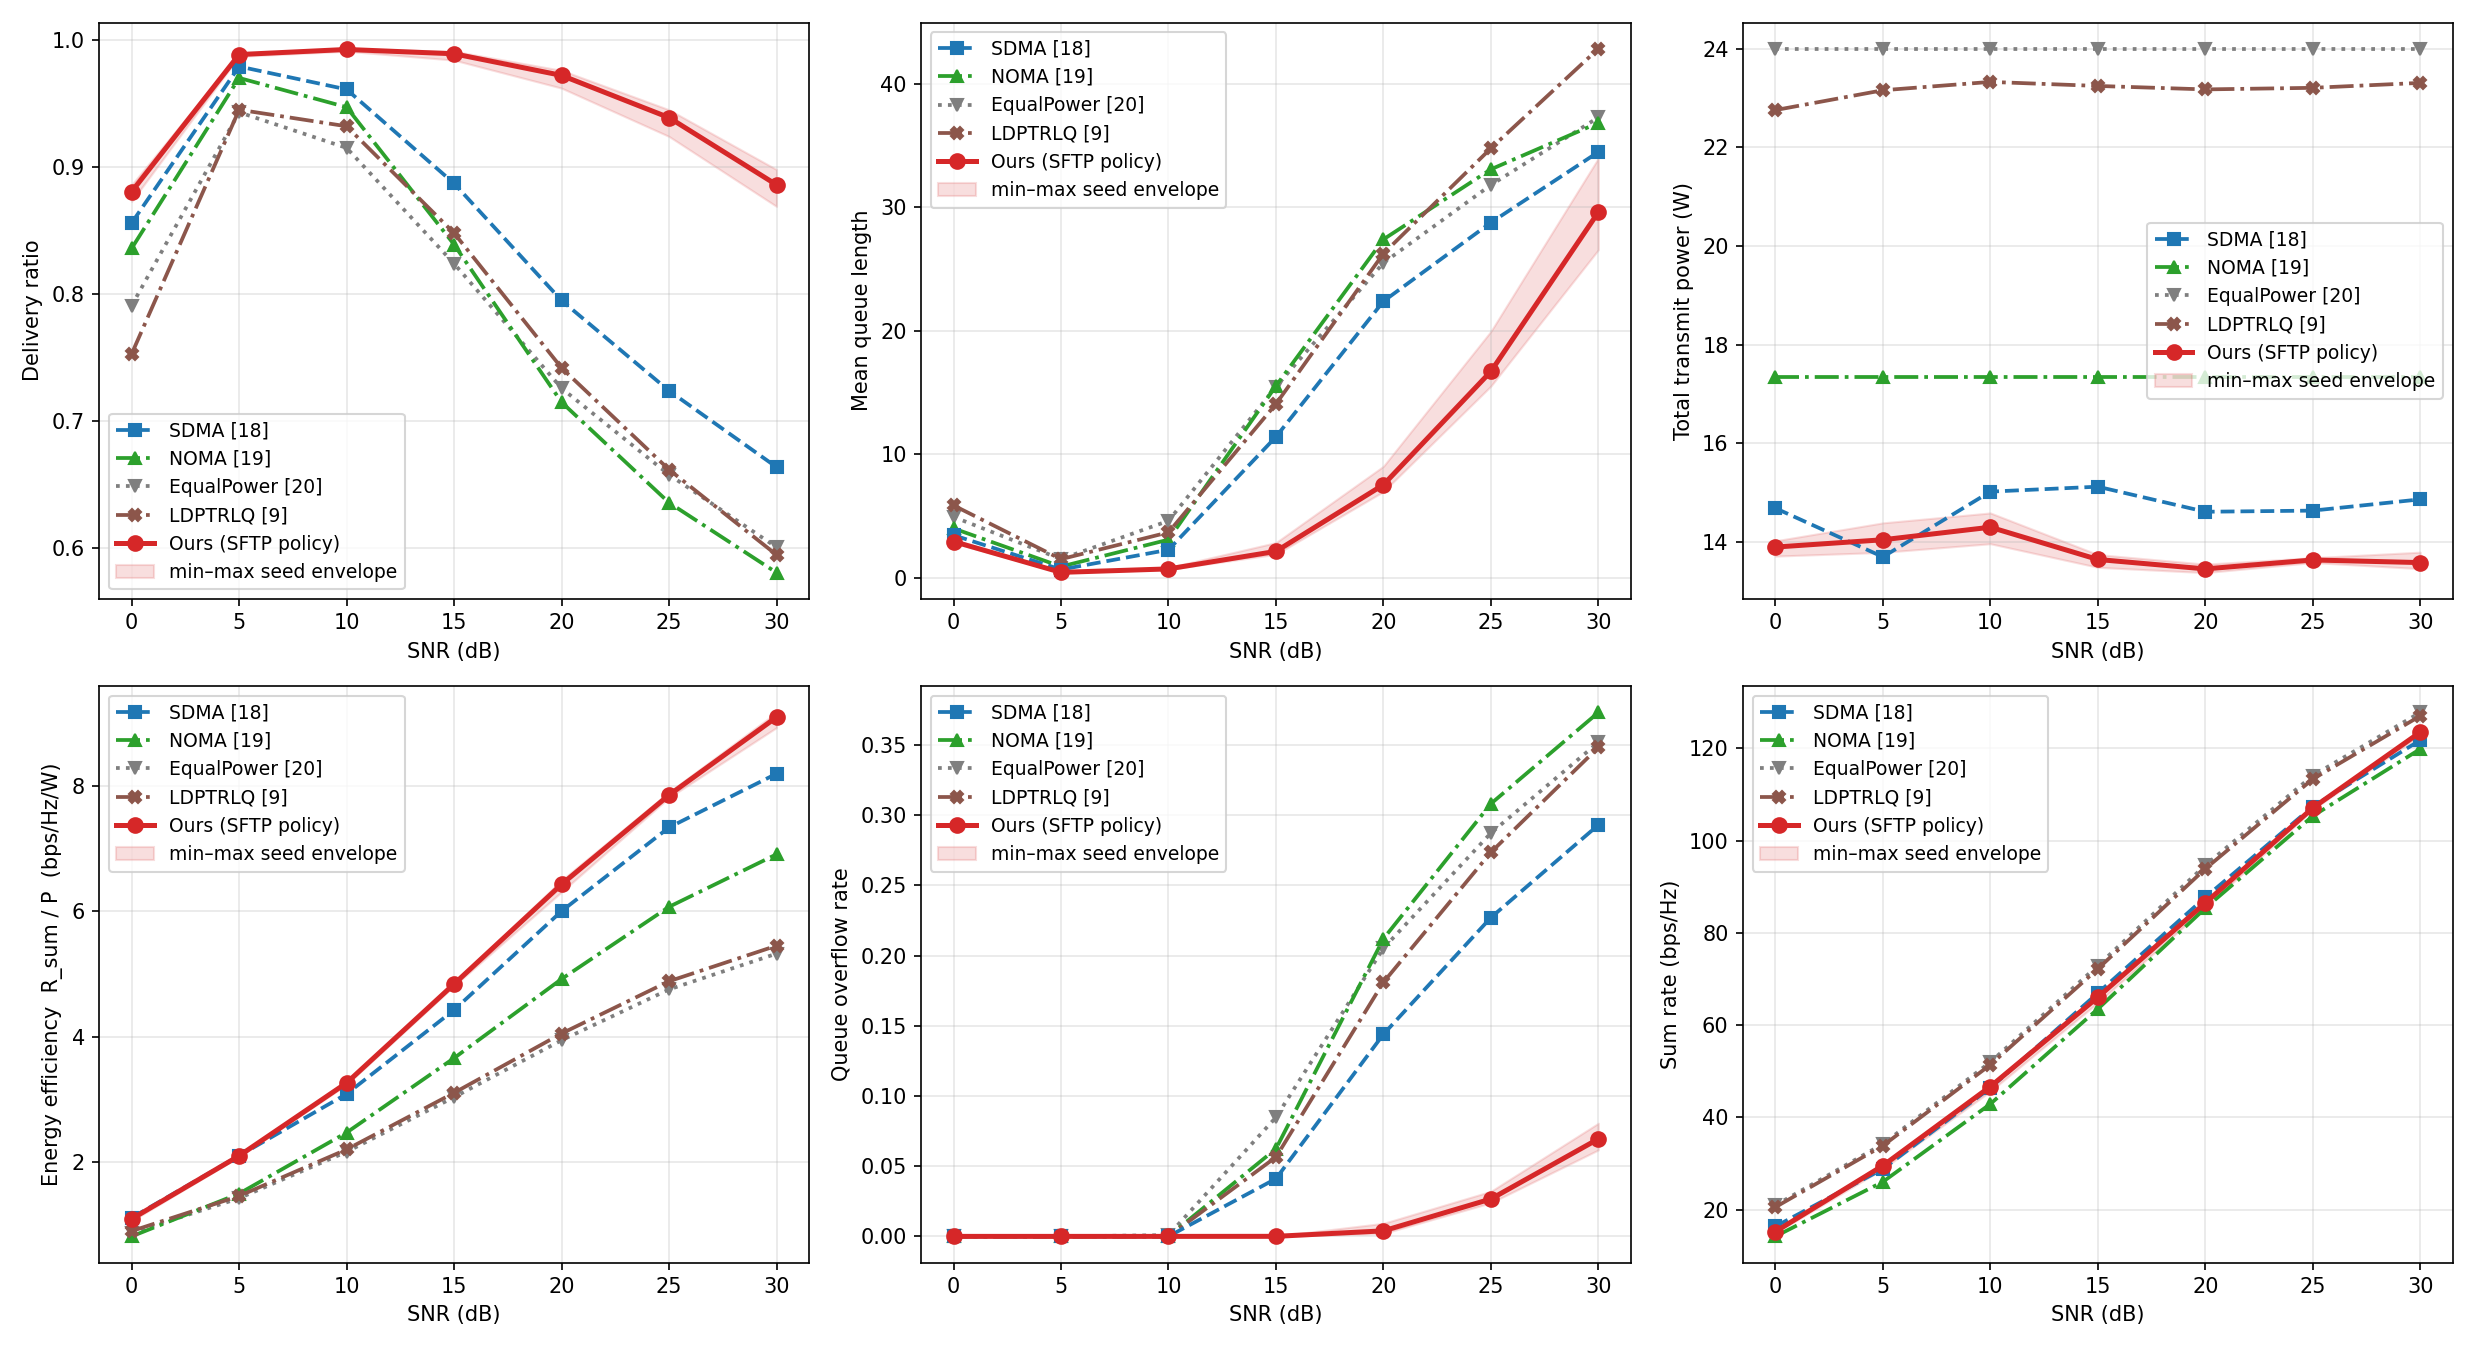
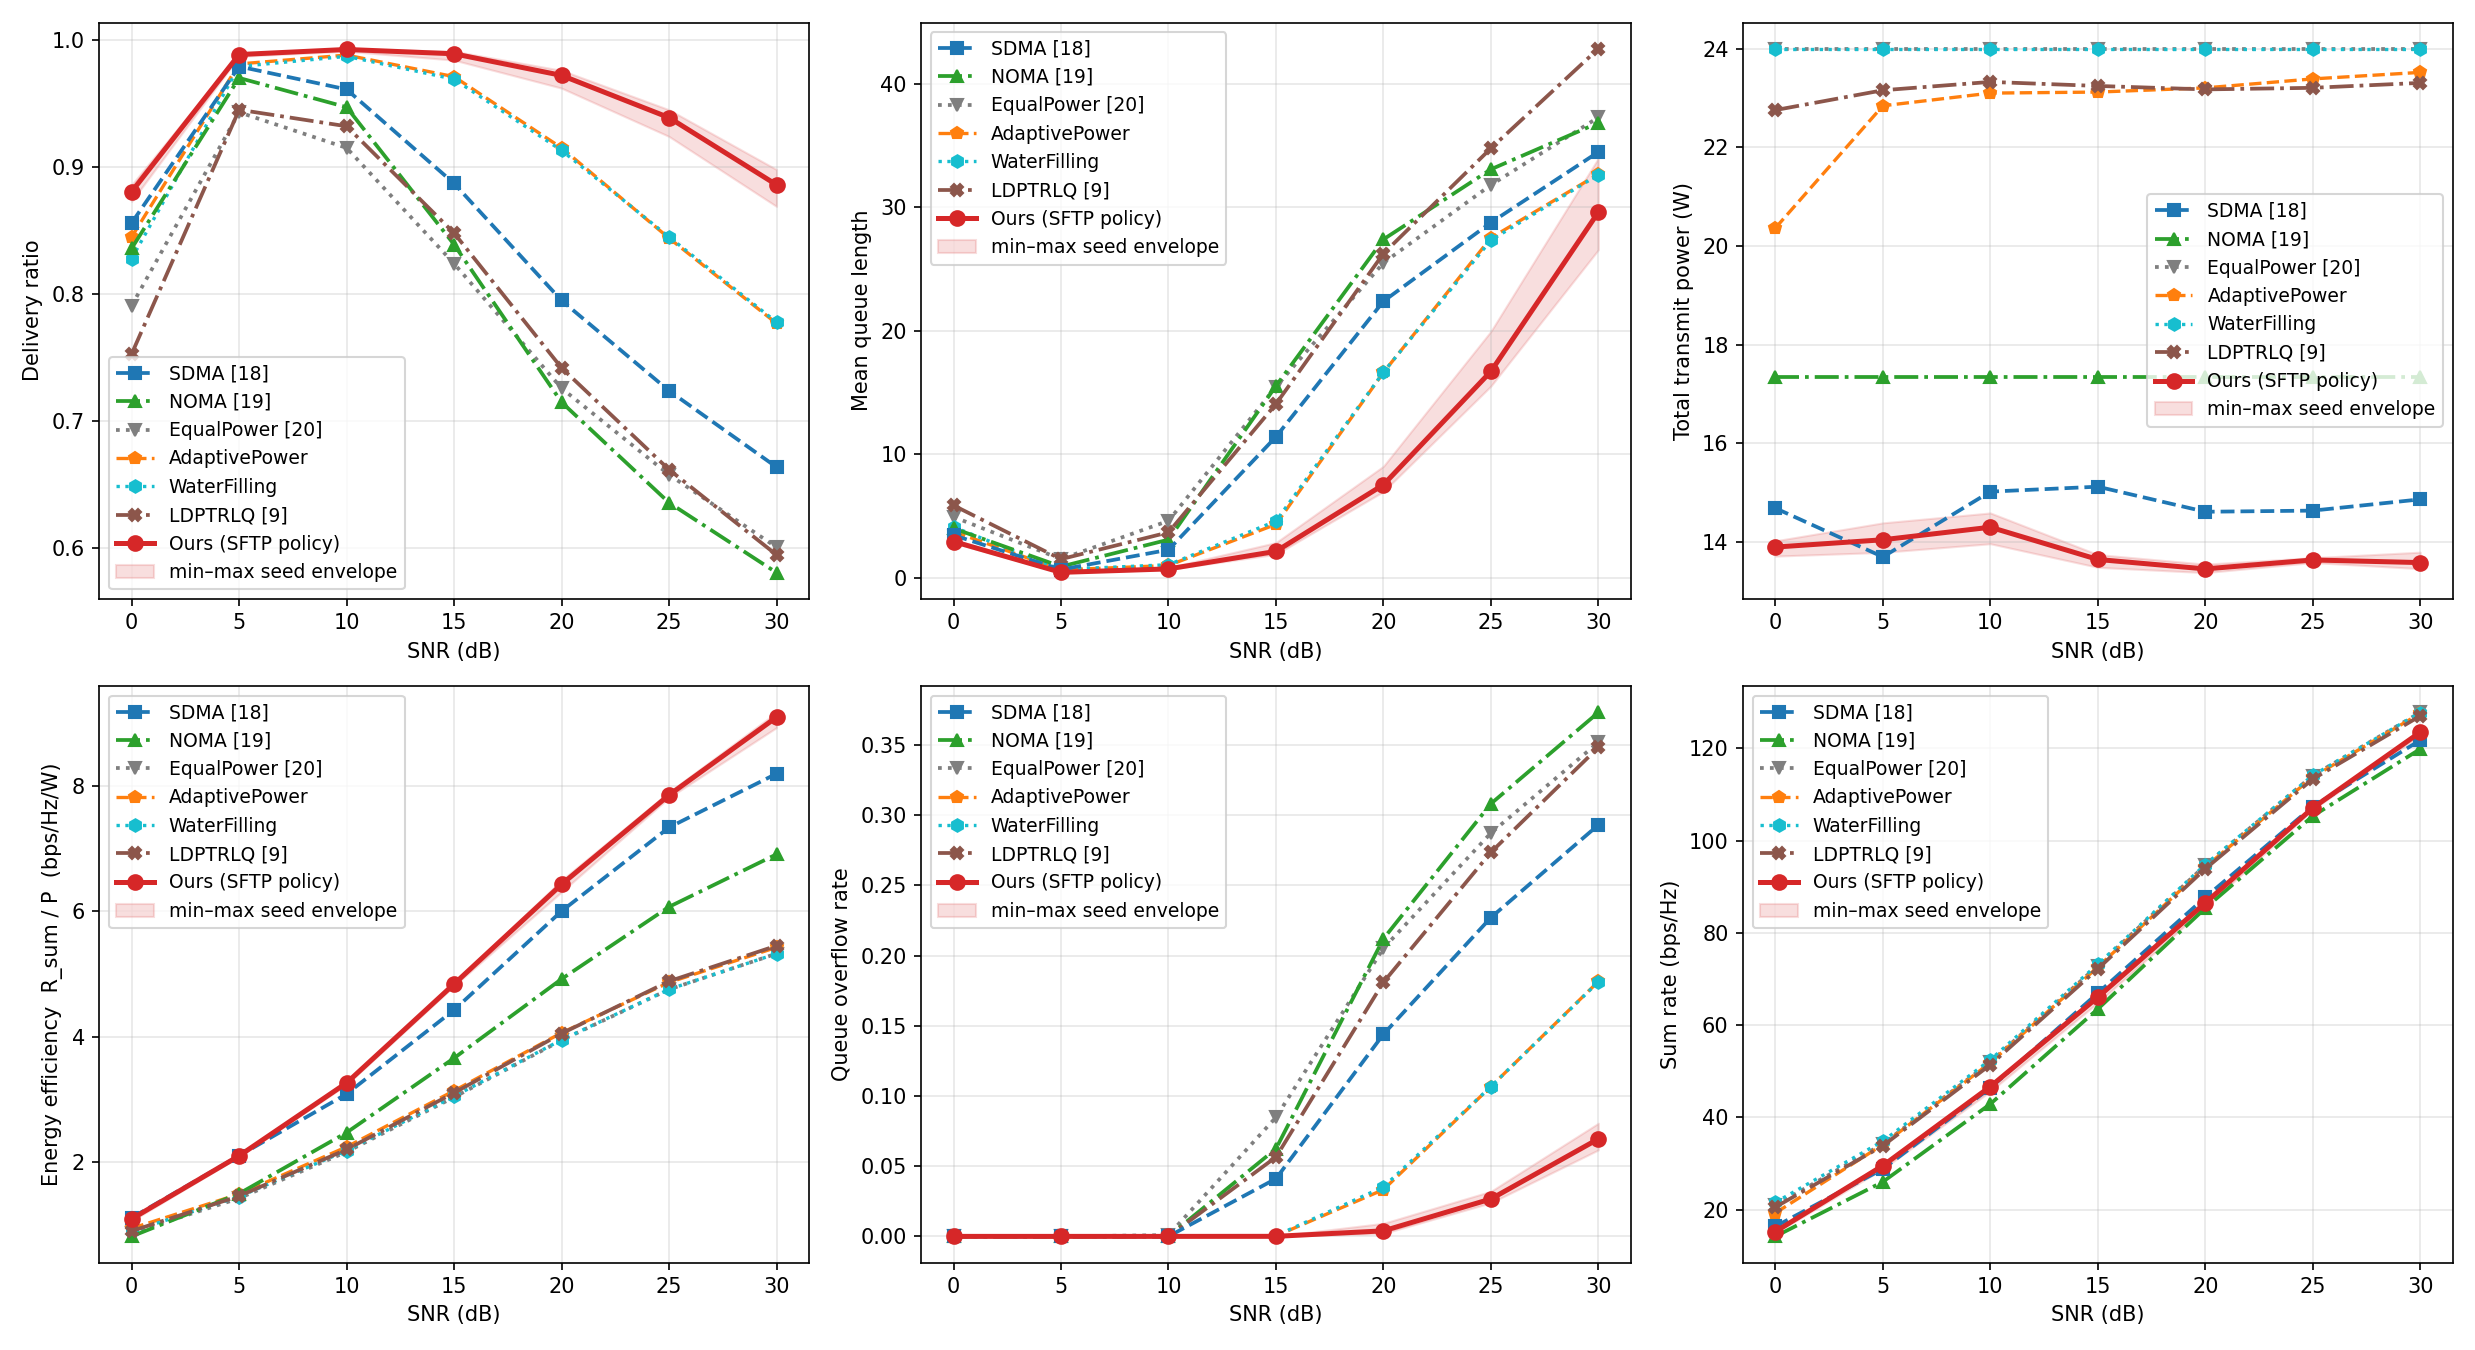
paper: plot water-filling + adaptive-power curves (ours wins); DiffOpt stays table-only
Master figure now includes the two training-free heuristics we outperform;
caption updated: only the oracle per-slot optimizer (DiffOpt, non-causal) and
classic-control arms (TD3/DDPG/JointOpt) remain as table comparators, keeping
the figure story = Ours beats every plotted baseline at half the power.

diff --git a/docs/paper/main.tex b/docs/paper/main.tex
@@ -514,18 +514,17 @@ SNR (dB) & \bfseries Ours (SFTP policy) & SDMA & NOMA & EqualPower \\
 \begin{figure*}[t]
 \centering
 \includegraphics[width=\textwidth]{benchmarks_master}
-\caption{Master benchmark: PPO-RSMA (ours) 5-seed mean with min--max envelope
-against the external baselines only --- classical SDMA~\cite{he2023eemumimo},
-NOMA~\cite{wang2023nomaee} and equal-power~\cite{falloun2025fixedpa}, plus the
-single-timescale Lyapunov drift-plus-penalty RL comparator (LDPTRLQ
-~\cite{zhu2025lyapguid}) --- on delivery, queue, power, EE, overflow and sum
-rate. The training-free per-slot optimizer (DiffOpt, ours) is not plotted here;
-it serves as the model-based upper bound in Table~\ref{tab:free} and
-\S\ref{sec:results}-E. Adaptive-power, water-filling and the causal DiffOpt
-variant are likewise omitted for clarity (Table~\ref{tab:free}), as are the
-individual seed members, which lie inside the envelope
-(\S\ref{sec:results}-C). \textbf{Ours} dominates every external baseline at every
-SNR at roughly half the transmit power of the fixed-power schemes.}
+\caption{Master benchmark. \textbf{Ours (SFTP policy)}: 5-seed mean with
+min--max envelope vs classical baselines (SDMA~\cite{he2023eemumimo},
+NOMA~\cite{wang2023nomaee}, equal-power~\cite{falloun2025fixedpa}), the
+training-free heuristics adaptive-power and water-filling, and from-scratch RL
+(LDPTRLQ~\cite{zhu2025lyapguid}), on delivery, queue, power, EE, overflow and sum
+rate. Our engine's non-causal per-slot oracle optimizer (DiffOpt) and the
+classic-control arms (TD3/DDPG/JointOpt) are given as numeric comparators in
+Tables~\ref{tab:free} and~\ref{tab:classic}; individual seed members lie inside
+the envelope (\S\ref{sec:results}-C). \textbf{Ours} dominates every plotted
+baseline at every SNR at roughly half the transmit power of the fixed-power
+schemes.}
 \label{fig:band}
 \end{figure*}
 
